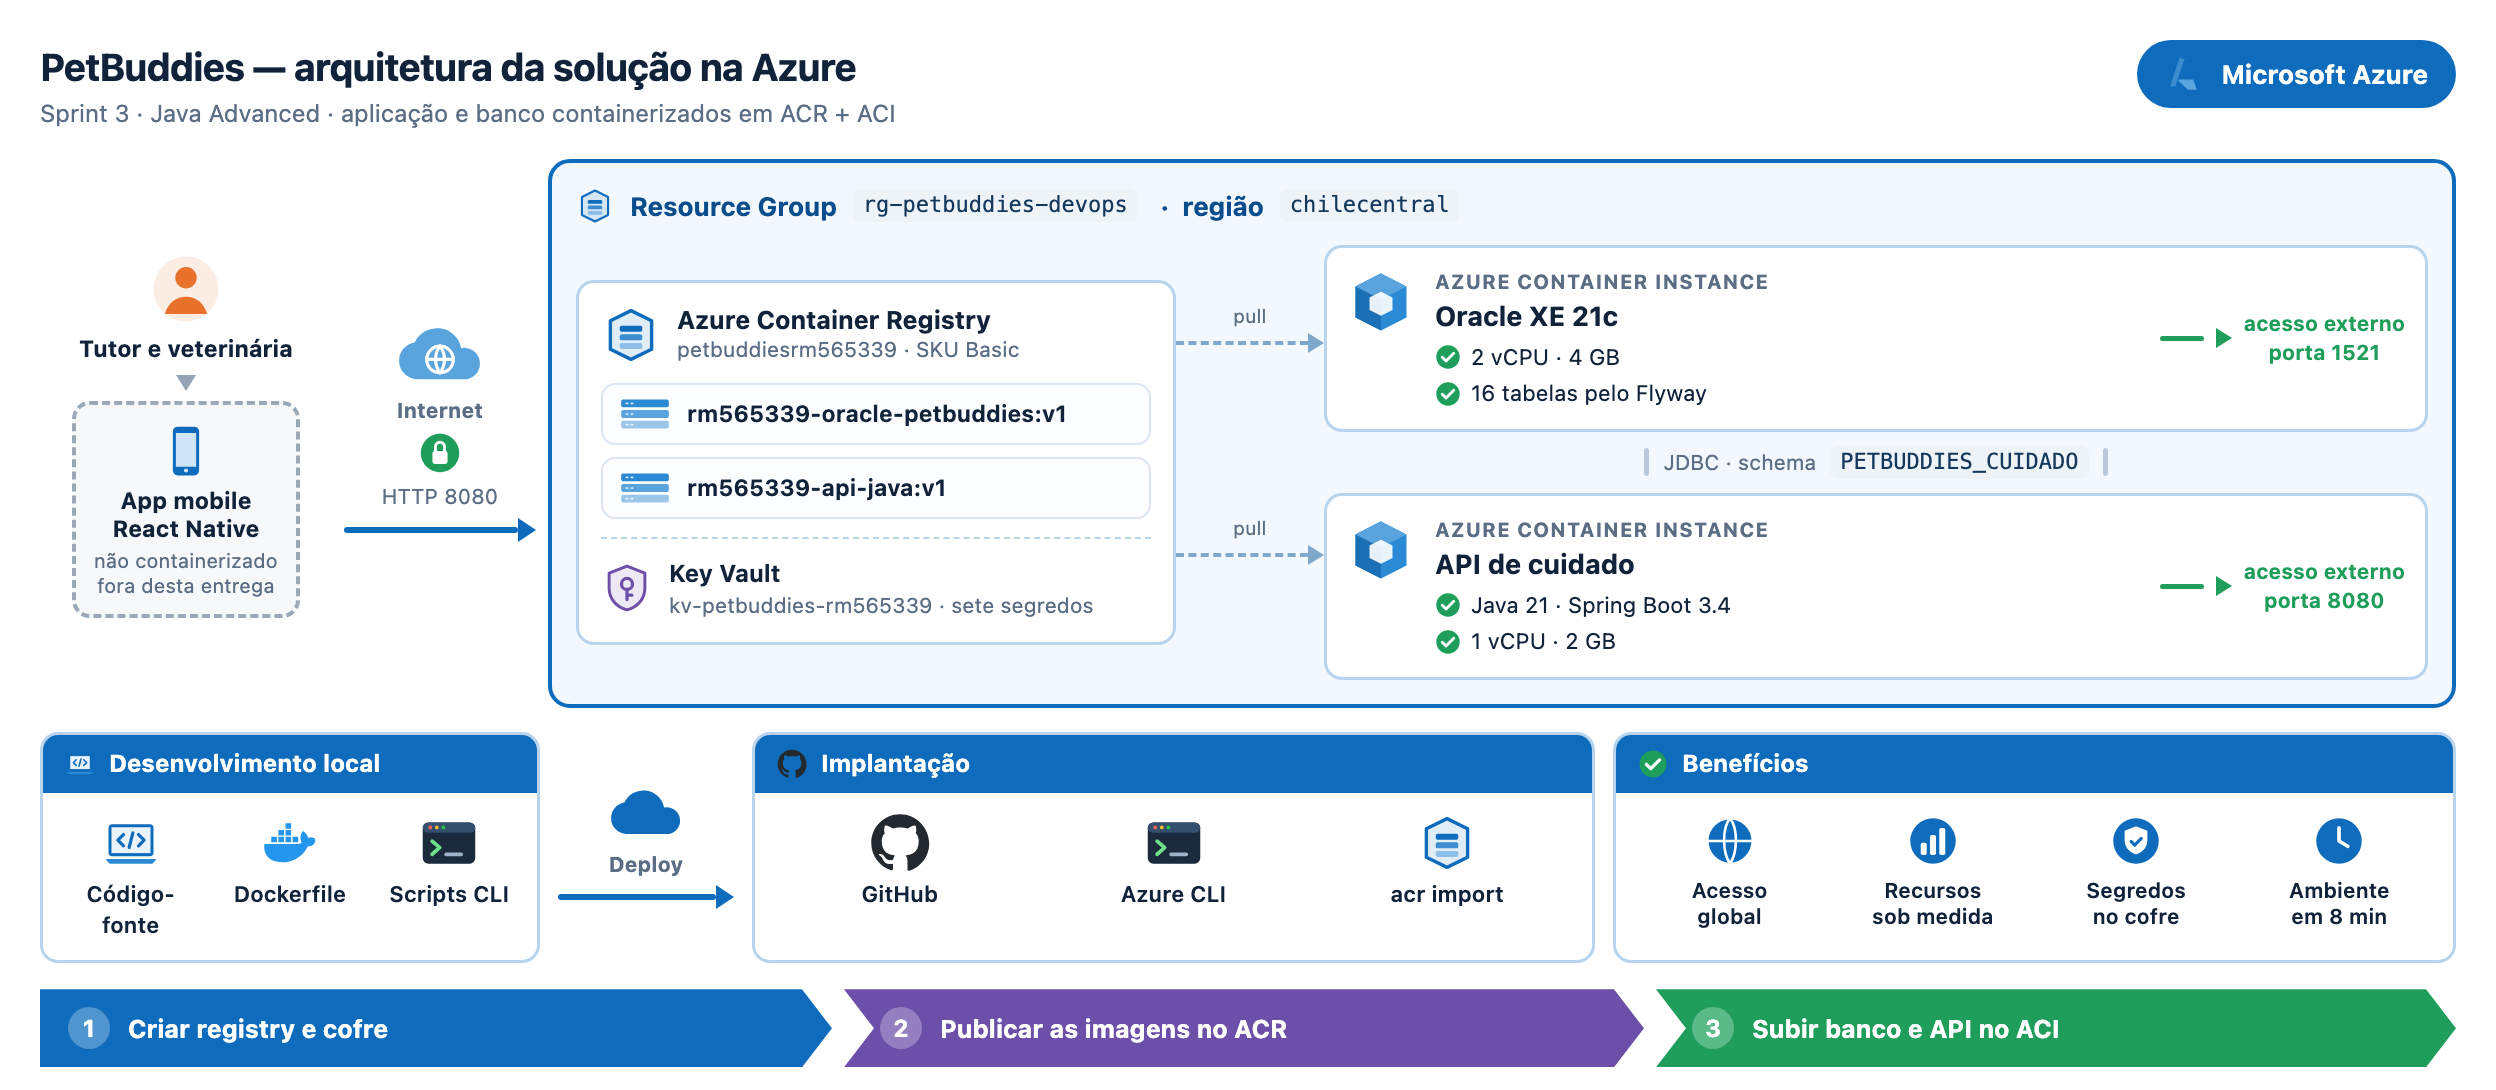
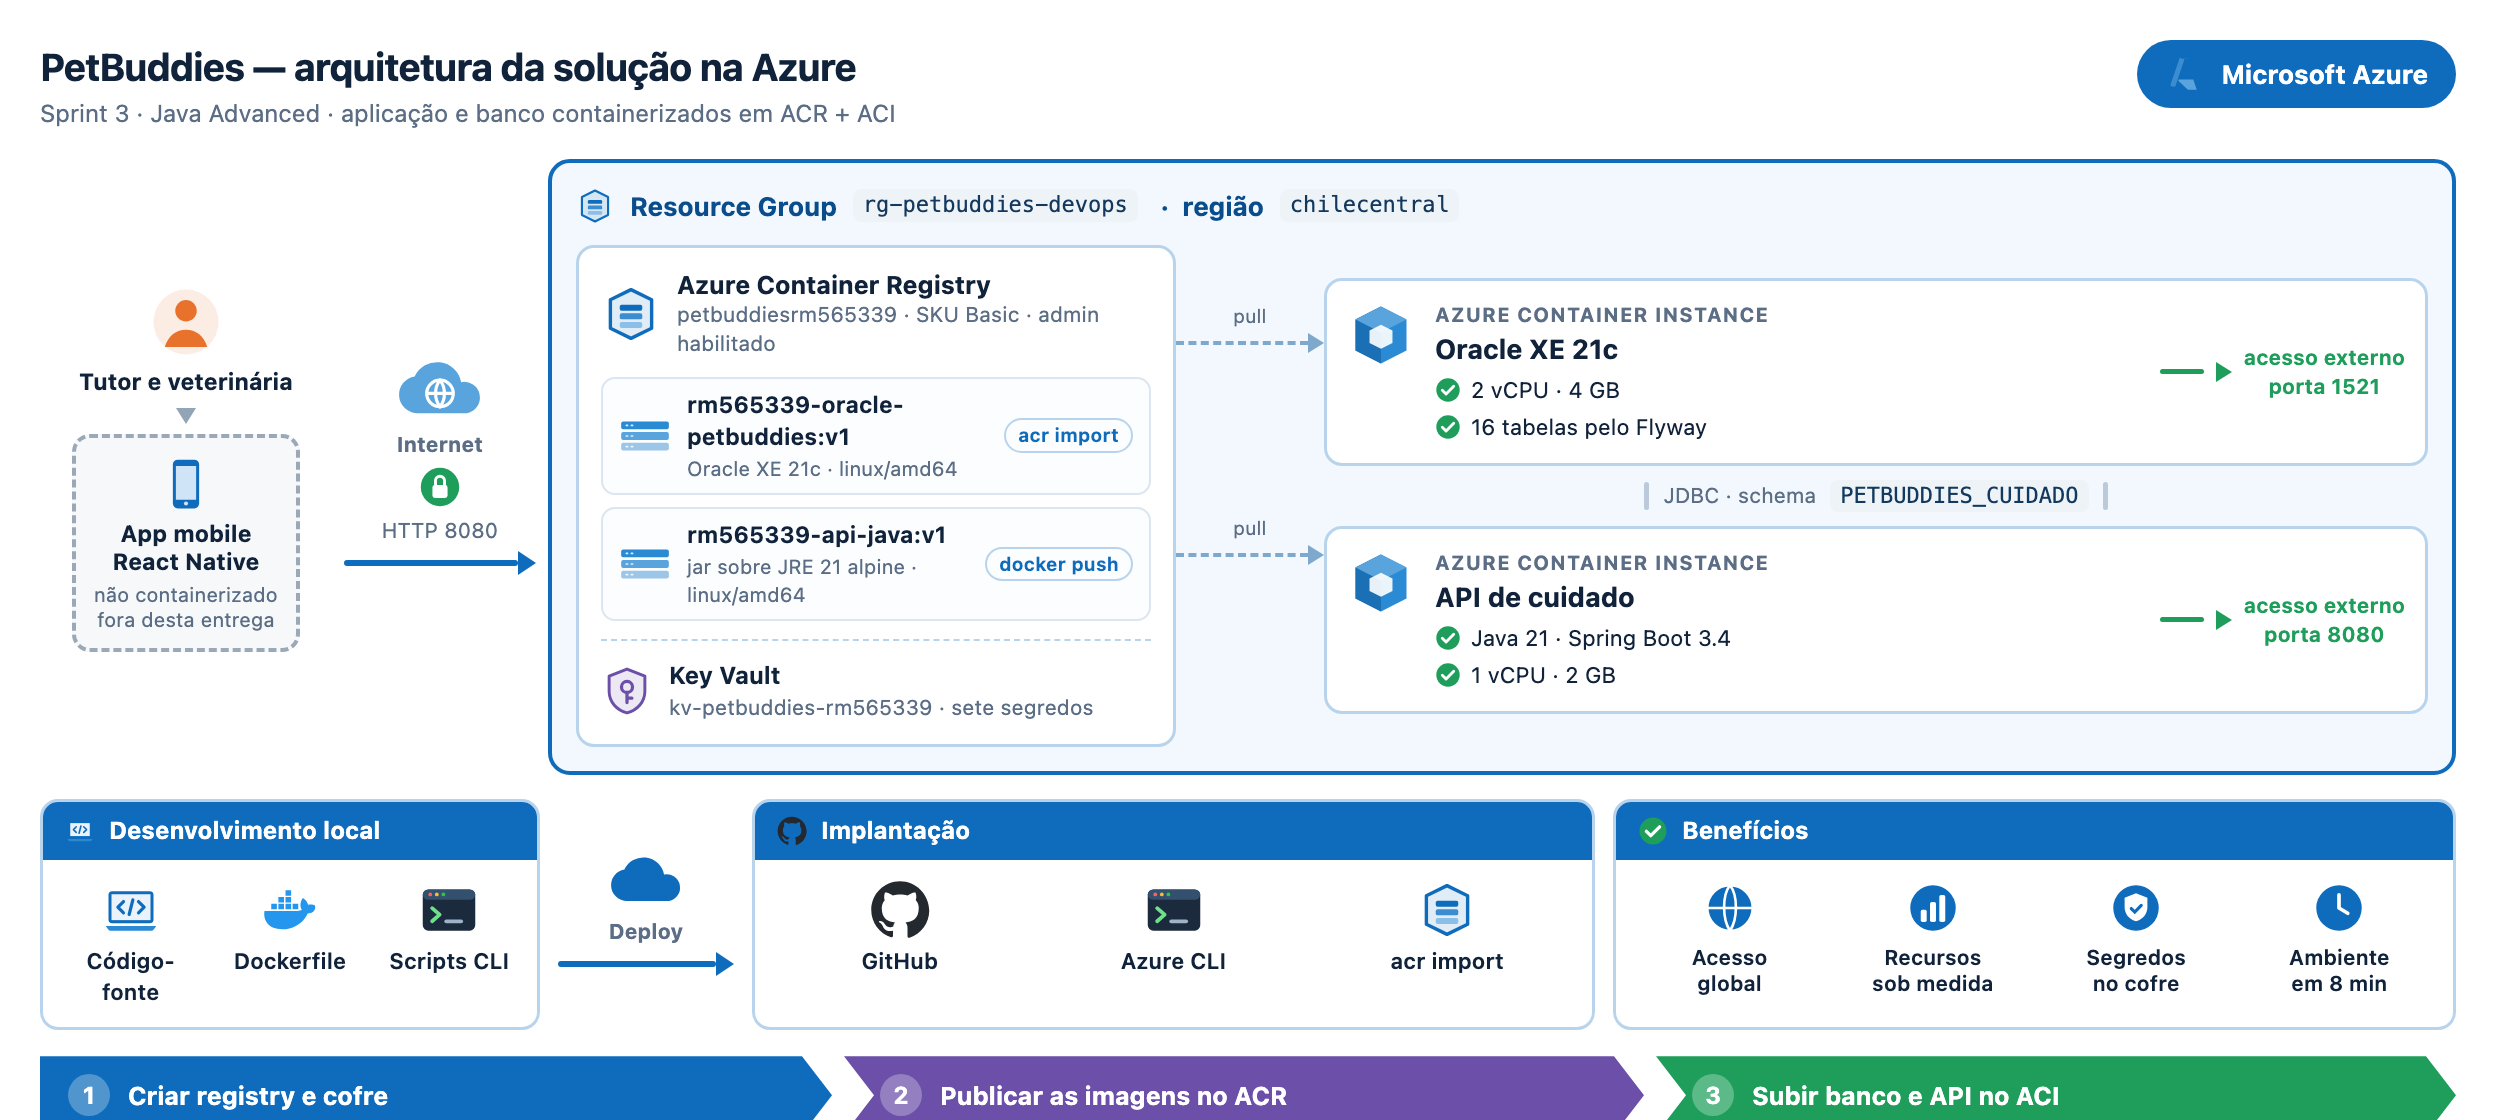
chore: acompanha a main na conta RM565339

diff --git a/docs/arquitetura.html b/docs/arquitetura.html
@@ -46,6 +46,9 @@
   .img{display:flex;align-items:center;gap:8px;border:1px solid #dce6f0;border-radius:7px;
        padding:5px 8px;margin-bottom:6px;background:#fbfdff}
   .img .n{font-weight:650;font-size:11.5px}
+  .img .m{color:var(--fraca);font-size:10px;margin-top:1px}
+  .img .via{margin-left:auto;font-size:9.5px;color:var(--azul);font-weight:650;
+            border:1px solid var(--borda);border-radius:10px;padding:1px 6px;white-space:nowrap}
   .apoio{display:flex;align-items:center;gap:8px;border-top:1px dashed var(--borda);
          margin-top:9px;padding-top:9px}
   .apoio .n{font-weight:650;font-size:12px}
@@ -273,12 +276,16 @@
     <div class="miolo">
       <div class="acr">
         <div class="cab"><svg class="ico" width="30" height="30"><use href="#i-acr"/></svg>
-          <div><b>Azure Container Registry</b><span>petbuddiesrm565339 · SKU Basic</span></div></div>
+          <div><b>Azure Container Registry</b><span>petbuddiesrm565339 · SKU Basic · admin habilitado</span></div></div>
 
         <div class="img"><svg class="ico" width="26" height="19"><use href="#i-imagem"/></svg>
-          <div class="n">rm565339-oracle-petbuddies:v1</div></div>
+          <div><div class="n">rm565339-oracle-petbuddies:v1</div>
+            <div class="m">Oracle XE 21c · linux/amd64</div></div>
+          <div class="via">acr import</div></div>
         <div class="img"><svg class="ico" width="26" height="19"><use href="#i-imagem"/></svg>
-          <div class="n">rm565339-api-java:v1</div></div>
+          <div><div class="n">rm565339-api-java:v1</div>
+            <div class="m">jar sobre JRE 21 alpine · linux/amd64</div></div>
+          <div class="via">docker push</div></div>
 
         <div class="apoio"><svg class="ico" width="26" height="26"><use href="#i-vault"/></svg>
           <div><div class="n">Key Vault</div>

diff --git a/README.md b/README.md
@@ -325,7 +325,9 @@ serviço para configurar o outro.
     └── 99_destroy.sh               remove tudo
 ```
 
-**Sem volume no banco.** O Oracle não suporta seus datafiles sobre SMB, que é o que o Azure Files
-oferece ao ACI, e o primeiro boot sobre ele fica 2 a 3× mais lento. Como o schema de cada serviço
+**Sem volume no banco.** O Oracle não sobe com seus datafiles sobre Azure Files. Testado em
+2026-09-12: o container entra em `CrashLoopBackOff`, morre dez segundos após iniciar e acumula
+reinícios sem jamais abrir o banco — o Azure Files entrega um compartilhamento SMB, e o Oracle
+precisa de semântica POSIX para os datafiles. Como o schema de cada serviço
 nasce na subida da própria aplicação, pelo Flyway, um restart do container reconstrói o banco em vez
 de perdê-lo. A entrega desta Sprint não exige volume nomeado.
